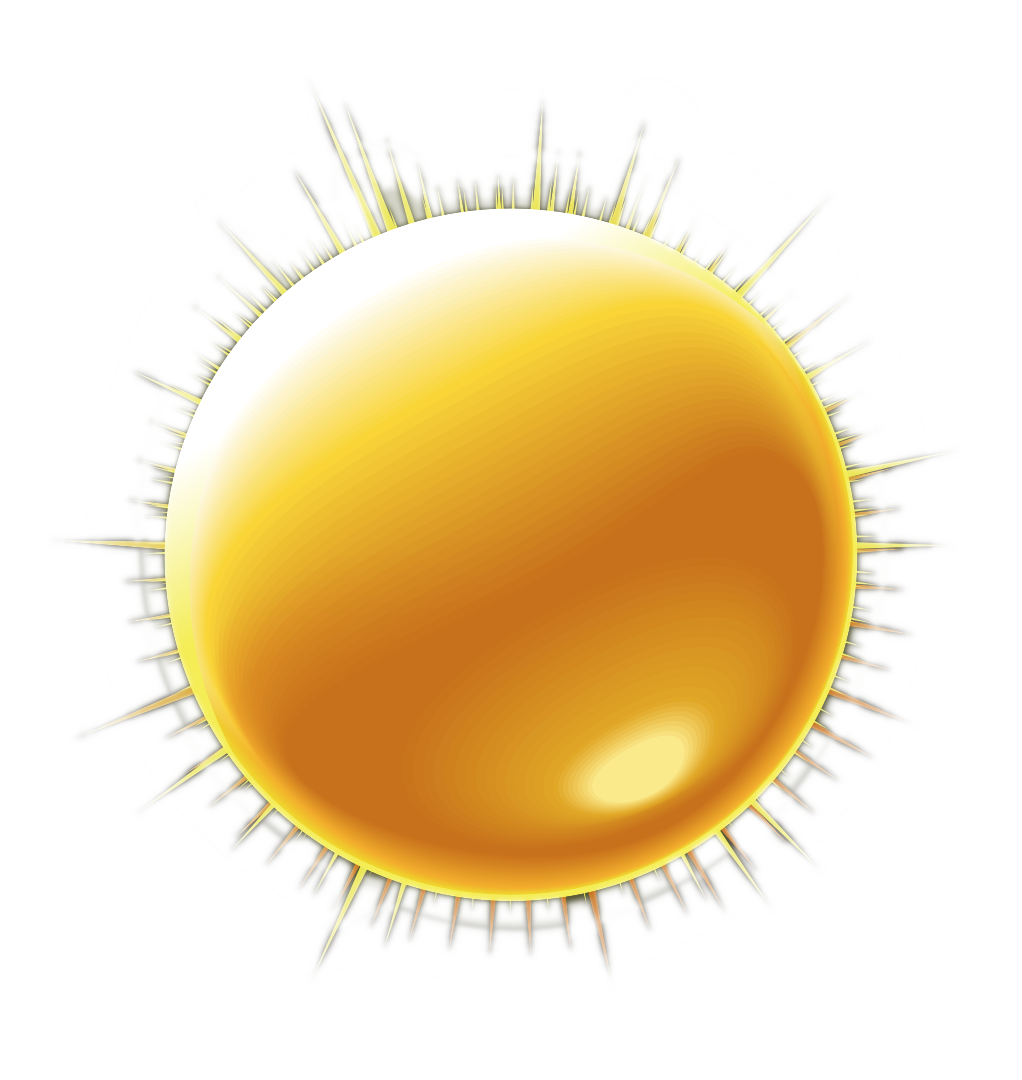
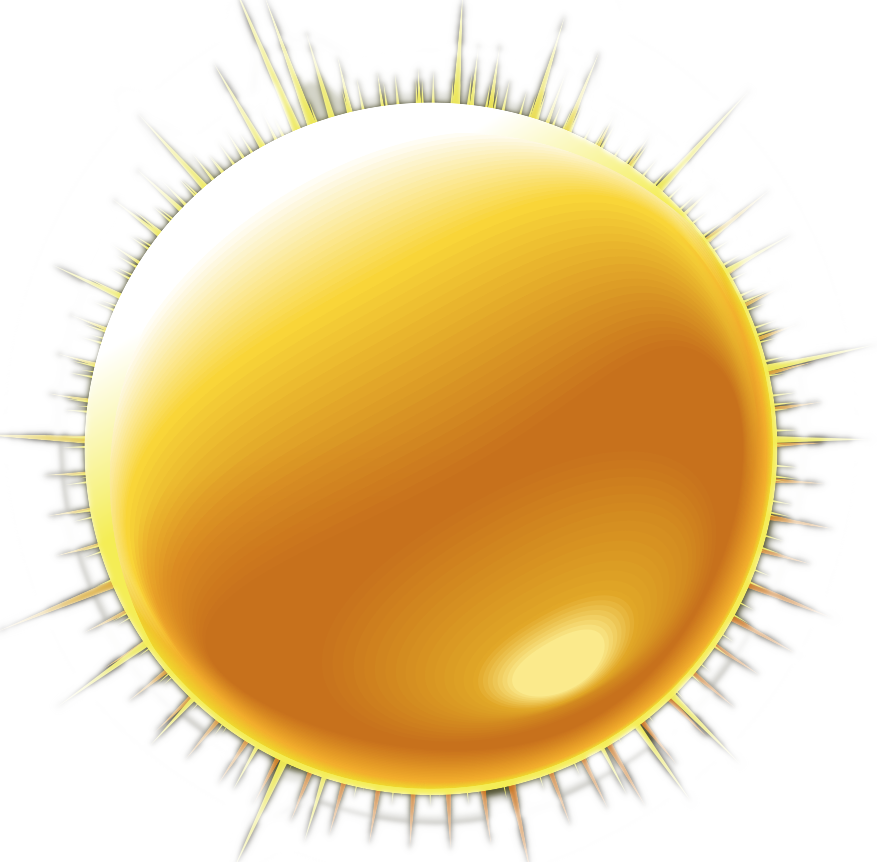
update illustrations daytime

diff --git a/index.html b/index.html
@@ -33,7 +33,7 @@
             </div>
 
             <div class+="stats_illustration">
-                <img id="stats_image" src="/assets/images/daytime/sun_minimal_cloud.png">
+                <img id="stats_image" src="/assets/images/daytime/sun_more_cloudy.png">
             </div>
             <div class="stats_meta_2">
                 <dl>
